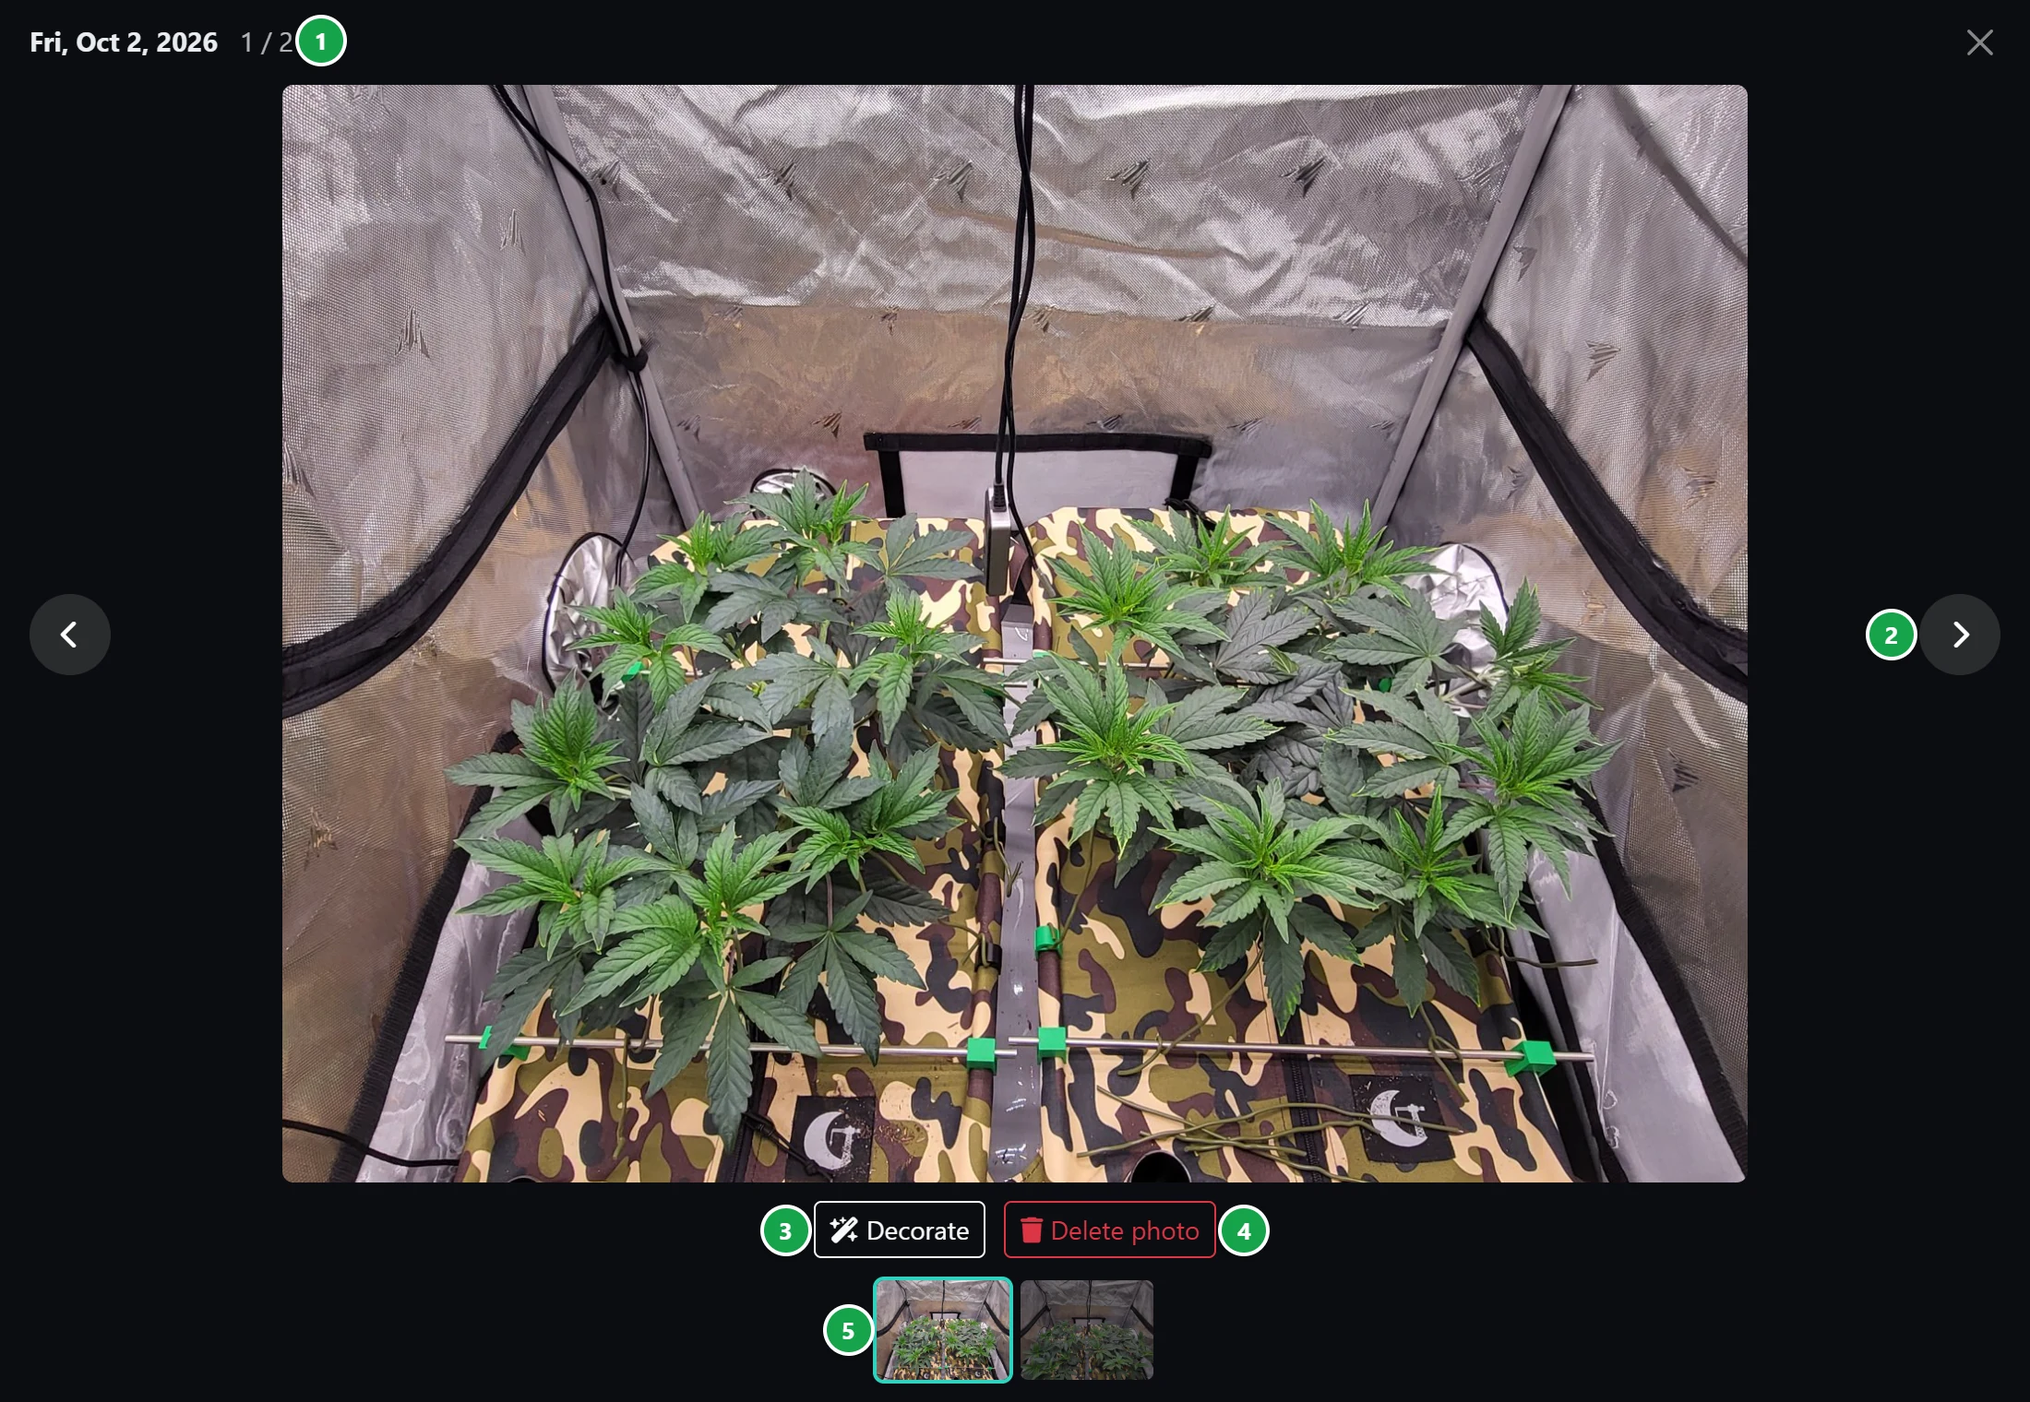
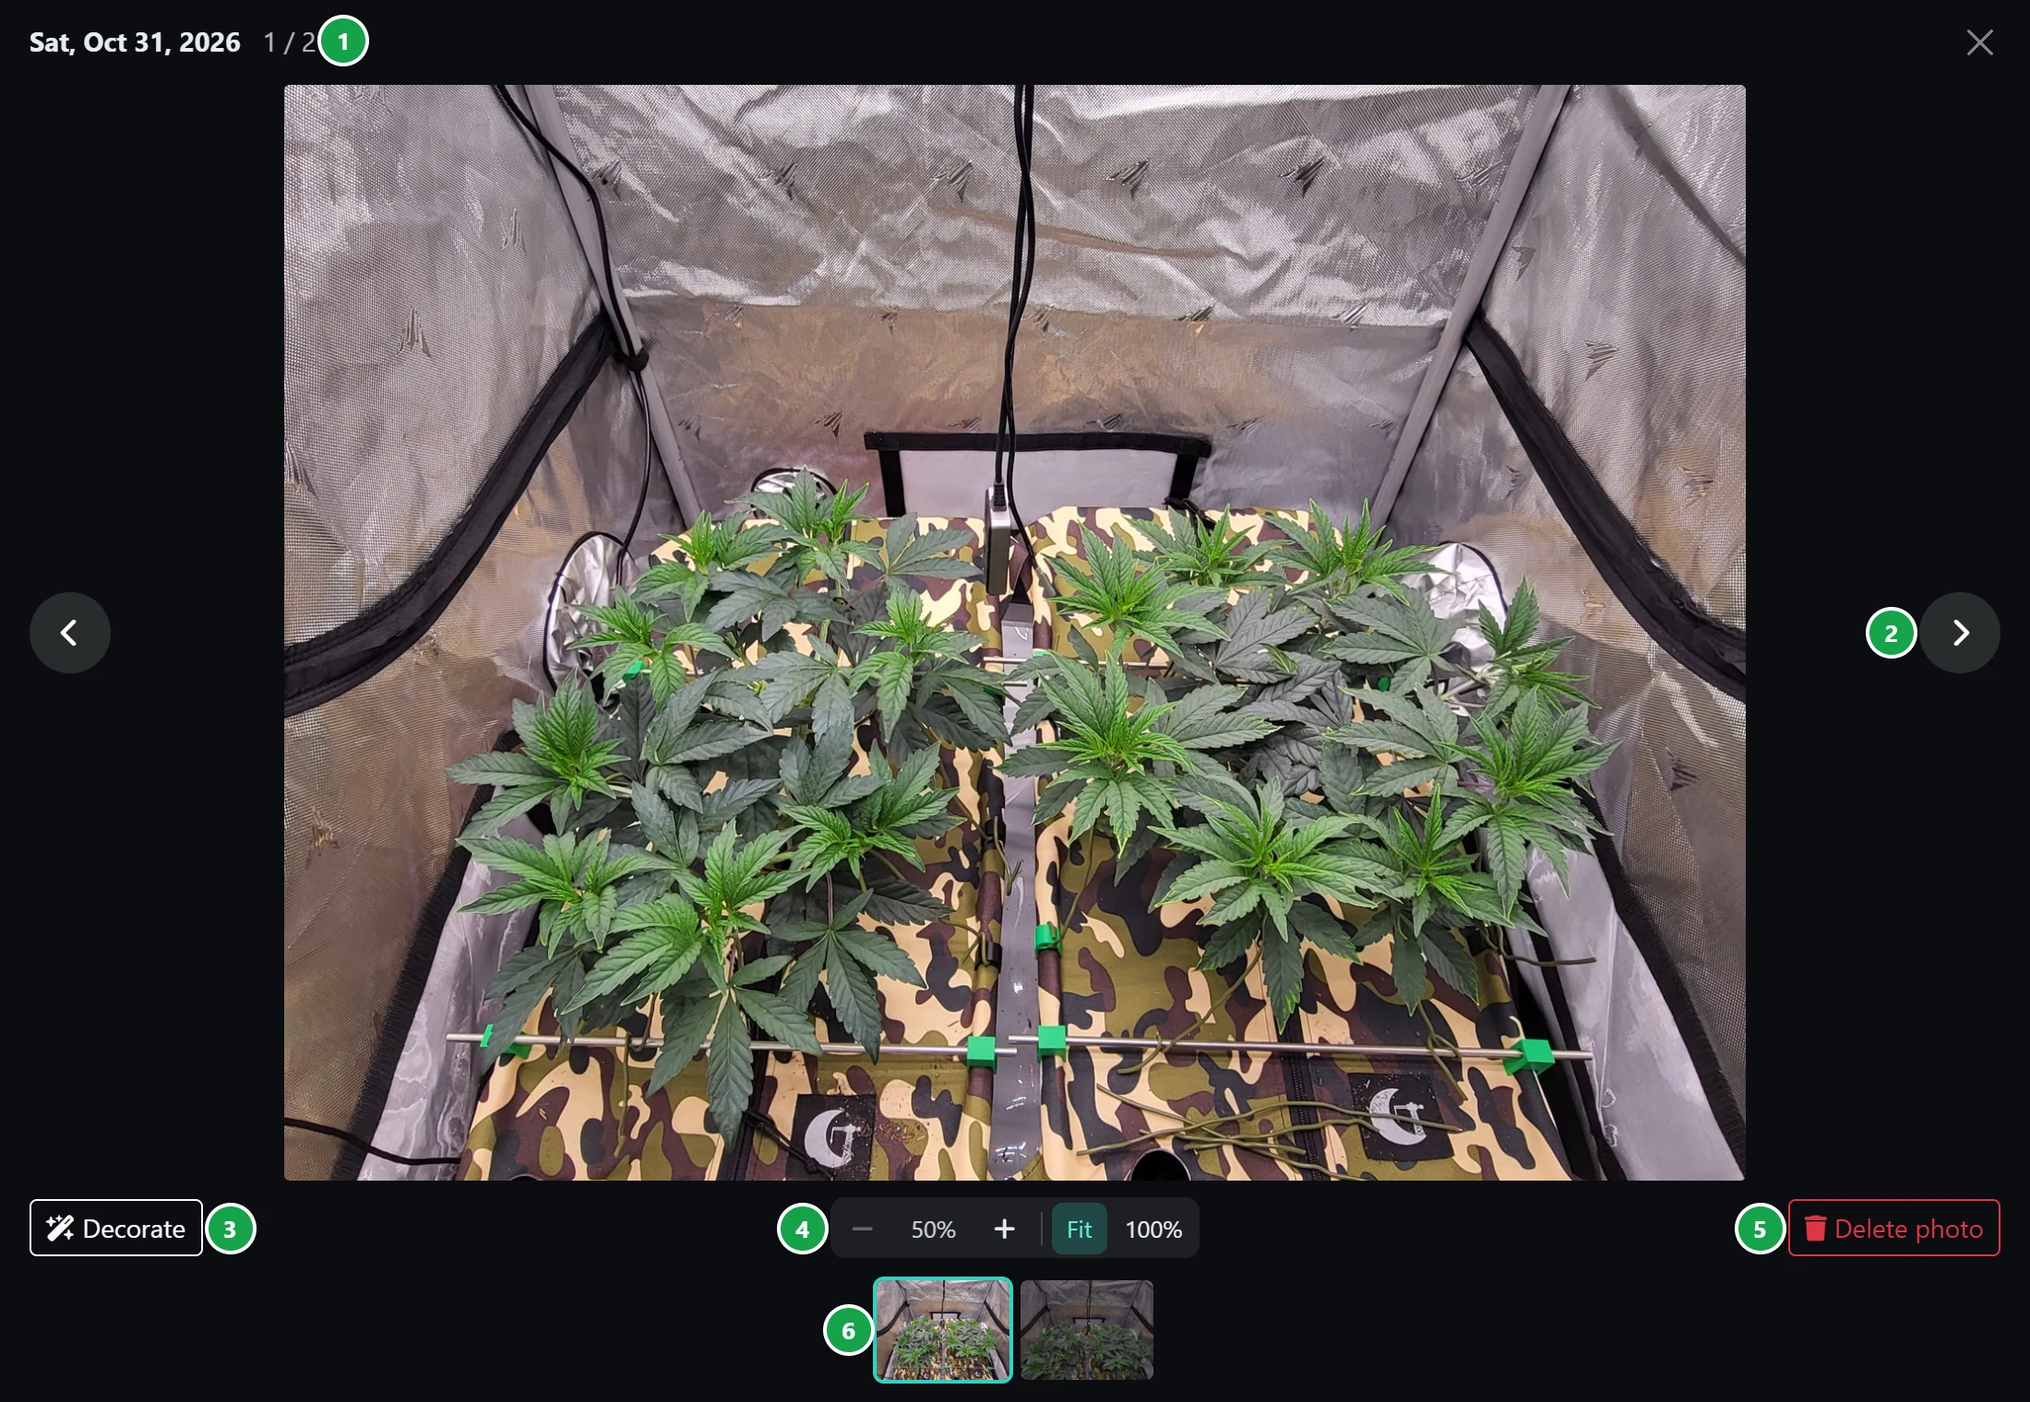
Photo viewer zoom; Delete photo moved away from the thumbnails
The plant photo viewer zooms from fitted up to 300%: mouse wheel at the
pointer, double-click or double-tap between fitted and zoomed in, drag to
move, two-finger pinch, keys + - 0. One row under the photo holds Decorate
(far left), the zoom buttons (centered) and Delete photo (far right); on
phones Decorate and Delete sit under the photo and the zoom buttons above
the thumbnails. Help's Viewing photos list and picture gained Zoom.

Also: the Spanish compare-page hint uses "tú" like the rest of the app.

diff --git a/web/static/js/plant-page.js b/web/static/js/plant-page.js
@@ -460,20 +460,36 @@
         const el = modal("ppViewer", `<div class="modal-dialog modal-fullscreen"><div class="modal-content">
             <div class="pp-vtop"><span id="ppVCap"></span><span class="acts">
                 <button type="button" class="btn-close btn-close-white ms-2" data-bs-dismiss="modal" aria-label="${esc(tr("pp_close"))}"></button></span></div>
-            <div class="pp-vbody"><button class="pp-vnav prev" id="ppVPrev" aria-label="${esc(tr("pp_previous"))}"><i class="fa-solid fa-chevron-left"></i></button>
-                <img id="ppVImg" alt=""><button class="pp-vnav next" id="ppVNext" aria-label="${esc(tr("pp_next"))}"><i class="fa-solid fa-chevron-right"></i></button></div>
-            ${LOGGED_IN ? `<div class="pp-vacts"><button class="btn btn-sm btn-outline-light" id="ppVDecorate"><i class="fa-solid fa-wand-magic-sparkles me-1"></i>${esc(tr("pp_decorate"))}</button>
-                <button class="btn btn-sm btn-outline-danger" id="ppVDelete"><i class="fa-solid fa-trash me-1"></i>${esc(tr("pp_delete_photo"))}</button></div>` : ""}
+            <div class="pp-vbody"><div class="pp-vstage" id="ppVStage"><img id="ppVImg" alt="" draggable="false"></div>
+                <button class="pp-vnav prev" id="ppVPrev" aria-label="${esc(tr("pp_previous"))}"><i class="fa-solid fa-chevron-left"></i></button>
+                <button class="pp-vnav next" id="ppVNext" aria-label="${esc(tr("pp_next"))}"><i class="fa-solid fa-chevron-right"></i></button>
+                <div class="pp-vhint gone" id="ppVHint"></div></div>
+            <div class="pp-vacts">${LOGGED_IN ? `<button class="btn btn-sm btn-outline-light deco" id="ppVDecorate"><i class="fa-solid fa-wand-magic-sparkles me-1"></i>${esc(tr("pp_decorate"))}</button>` : ""}
+                <span class="pp-vzoom">
+                    <button type="button" id="ppVOut" title="${esc(tr("pp_zoom_out_tip"))}" aria-label="${esc(tr("pp_zoom_out"))}"><i class="fa-solid fa-minus"></i></button>
+                    <span class="pct" id="ppVPct">100%</span>
+                    <button type="button" id="ppVIn" title="${esc(tr("pp_zoom_in_tip"))}" aria-label="${esc(tr("pp_zoom_in"))}"><i class="fa-solid fa-plus"></i></button>
+                    <span class="sep wide"></span>
+                    <button type="button" class="wide" id="ppVFit" title="${esc(tr("pp_zoom_fit_tip"))}">${esc(tr("pp_zoom_fit"))}</button>
+                    <button type="button" class="wide" id="ppVOne" title="${esc(tr("pp_zoom_actual_tip"))}">100%</button>
+                </span>
+                ${LOGGED_IN ? `<button class="btn btn-sm btn-outline-danger del" id="ppVDelete"><i class="fa-solid fa-trash me-1"></i>${esc(tr("pp_delete_photo"))}</button>` : ""}</div>
             <div class="pp-vstrip" id="ppVStrip"></div></div></div>`, "pp-viewer");
         if (!el.dataset.wired) {
             el.dataset.wired = "1";
             $("ppVPrev").addEventListener("click", () => stepViewer(-1));
             $("ppVNext").addEventListener("click", () => stepViewer(1));
             document.addEventListener("keydown", e => {
-                if (!el.classList.contains("show")) return;
+                if (!el.classList.contains("show") || e.ctrlKey || e.metaKey || e.altKey) return;
+                const a = document.activeElement;
+                if (a && a.closest(".modal") && !el.contains(a)) return; // e.g. the delete confirmation
                 if (e.key === "ArrowLeft") stepViewer(-1);
-                if (e.key === "ArrowRight") stepViewer(1);
+                else if (e.key === "ArrowRight") stepViewer(1);
+                else if (e.key === "+" || e.key === "=") vZoom.step(1);
+                else if (e.key === "-" || e.key === "_") vZoom.step(-1);
+                else if (e.key === "0") vZoom.fit();
             });
+            vZoom.wire(el);
             if (LOGGED_IN) {
                 $("ppVDecorate").addEventListener("click", () => {
                     const thumb = document.querySelector(`#ppThumbs .thumbnail-img[data-id="${vList[vIdx].id}"]`);
@@ -492,11 +508,121 @@
         }
         vList = list; vIdx = idx;
         showViewer();
+        vZoom.hint();
         bootstrap.Modal.getOrCreateInstance(el).show();
     }
+    // Zoom in the viewer: fitted (never smaller) up to 300% of the photo's own pixels.
+    // Wheel zooms at the pointer, double-click/tap switches Fit <-> 100%, drag moves,
+    // two fingers pinch. A new photo always opens fitted.
+    const vZoom = (() => {
+        const MAX = 3;
+        let stage, img, scale = 1, x = 0, y = 0, fitScale = 1, hintTimer = null, pending = true;
+        const zoomed = () => scale > fitScale * 1.001;
+        function fitOf() {
+            const w = img.naturalWidth || 1, h = img.naturalHeight || 1;
+            return Math.min(stage.clientWidth * 0.92 / w, stage.clientHeight / h, 1);
+        }
+        // A zoomed photo can't be pushed off the screen; one smaller than the screen stays centered.
+        function clamp() {
+            const w = img.naturalWidth * scale, h = img.naturalHeight * scale, W = stage.clientWidth, H = stage.clientHeight;
+            x = w <= W ? (W - w) / 2 : Math.min(0, Math.max(W - w, x));
+            y = h <= H ? (H - h) / 2 : Math.min(0, Math.max(H - h, y));
+        }
+        function apply() {
+            clamp();
+            img.style.transform = `translate(${x}px, ${y}px) scale(${scale})`;
+            $("ppVPct").textContent = Math.round(scale * 100) + "%";
+            $("ppVOut").disabled = !zoomed();
+            $("ppVIn").disabled = scale >= MAX - 1e-6;
+            $("ppVFit").classList.toggle("on", !zoomed());
+            $("ppVOne").classList.toggle("on", Math.abs(scale - 1) < 1e-3);
+            stage.classList.toggle("zoomed", zoomed());
+        }
+        function fit() {
+            if (!img.naturalWidth || !stage.clientWidth) return;
+            fitScale = scale = fitOf();
+            pending = false;
+            apply();
+            img.style.visibility = "";
+        }
+        function zoomTo(s, cx = stage.clientWidth / 2, cy = stage.clientHeight / 2) {
+            if (!img.naturalWidth) return;
+            s = Math.min(MAX, Math.max(fitScale, s));
+            x = cx - (cx - x) * (s / scale);
+            y = cy - (cy - y) * (s / scale);
+            scale = s;
+            apply();
+        }
+        const step = (d, cx, cy) => zoomTo(scale * (d > 0 ? 1.25 : 1 / 1.25), cx, cy);
+        const toggleAt = (cx, cy) => { if (zoomed()) fit(); else zoomTo(Math.max(1, fitScale * 2), cx, cy); };
+        const local = e => { const r = stage.getBoundingClientRect(); return { x: e.clientX - r.left, y: e.clientY - r.top }; };
+        function wire() {
+            stage = $("ppVStage"); img = $("ppVImg");
+            img.addEventListener("load", fit);
+            $("ppVIn").addEventListener("click", () => step(1));
+            $("ppVOut").addEventListener("click", () => step(-1));
+            $("ppVFit").addEventListener("click", fit);
+            $("ppVOne").addEventListener("click", () => zoomTo(1));
+            stage.addEventListener("wheel", e => { e.preventDefault(); const p = local(e); step(e.deltaY < 0 ? 1 : -1, p.x, p.y); }, { passive: false });
+            stage.addEventListener("dblclick", e => { const p = local(e); toggleAt(p.x, p.y); });
+            // Pointers: one moves a zoomed photo, two pinch; a quick second tap is a double-tap.
+            const pts = new Map();
+            let drag = null, pinch = null, lastTap = 0;
+            stage.addEventListener("pointerdown", e => {
+                if (e.pointerType === "mouse" && e.button !== 0) return;
+                stage.setPointerCapture(e.pointerId);
+                pts.set(e.pointerId, local(e));
+                if (pts.size === 2) {
+                    const [a, b] = [...pts.values()];
+                    pinch = { d: Math.hypot(a.x - b.x, a.y - b.y) || 1, s: scale };
+                    drag = null;
+                } else if (pts.size === 1) {
+                    if (e.pointerType !== "mouse") {
+                        const now = Date.now();
+                        if (now - lastTap < 300) { const p = local(e); toggleAt(p.x, p.y); lastTap = 0; return; }
+                        lastTap = now;
+                    }
+                    if (zoomed()) { drag = { sx: e.clientX - x, sy: e.clientY - y }; stage.classList.add("dragging"); }
+                }
+            });
+            stage.addEventListener("pointermove", e => {
+                if (!pts.has(e.pointerId)) return;
+                pts.set(e.pointerId, local(e));
+                if (pinch && pts.size === 2) {
+                    const [a, b] = [...pts.values()];
+                    zoomTo(pinch.s * Math.hypot(a.x - b.x, a.y - b.y) / pinch.d, (a.x + b.x) / 2, (a.y + b.y) / 2);
+                } else if (drag) { x = e.clientX - drag.sx; y = e.clientY - drag.sy; apply(); }
+            });
+            const up = e => { pts.delete(e.pointerId); if (pts.size < 2) pinch = null; if (!pts.size) { drag = null; stage.classList.remove("dragging"); } };
+            stage.addEventListener("pointerup", up);
+            stage.addEventListener("pointercancel", up);
+            // The stage has no size until the window opens, and changes with the browser window.
+            new ResizeObserver(() => {
+                if (pending || !zoomed()) { fit(); return; }
+                if (!stage.clientWidth) return;
+                fitScale = fitOf();
+                apply();
+            }).observe(stage);
+        }
+        // A new photo: hide it until it is placed, fitted.
+        function load(src) {
+            img.style.visibility = "hidden";
+            pending = true;
+            if (img.getAttribute("src") === src && img.complete && img.naturalWidth) fit();
+            else img.src = src;
+        }
+        function hint() {
+            const h = $("ppVHint");
+            h.textContent = tr(matchMedia("(pointer: coarse)").matches ? "pp_zoom_hint_touch" : "pp_zoom_hint_mouse");
+            h.classList.remove("gone");
+            clearTimeout(hintTimer);
+            hintTimer = setTimeout(() => h.classList.add("gone"), 3500);
+        }
+        return { wire, load, fit, step, hint };
+    })();
     function showViewer() {
         const p = vList[vIdx];
-        $("ppVImg").src = p.path;
+        vZoom.load(p.path);
         $("ppVImg").alt = p.description || "";
         const who = p.plant && allMode ? esc((metaOf(p.plant) || {}).name || "") + " · " : "";
         $("ppVCap").innerHTML = `<strong>${who}${esc(fmt(p.date, { weekday: "short", month: "short", day: "numeric", year: "numeric" }))}</strong>${p.description ? " · " + esc(p.description) : ""} <span class="ms-2 opacity-75">${vIdx + 1} / ${vList.length}</span>`;

diff --git a/web/static/css/isley.css b/web/static/css/isley.css
@@ -2752,12 +2752,34 @@ th, td {
 .pp-vtop { display: flex; justify-content: space-between; align-items: center; gap: .5rem; padding: .75rem 1rem; font-size: .9rem; flex-wrap: wrap; }
 .pp-vtop .acts { display: flex; gap: .4rem; align-items: center; }
 .pp-vbody { flex: 1; display: flex; align-items: center; justify-content: center; position: relative; min-height: 0; }
-.pp-vbody img { max-width: 92%; max-height: 100%; object-fit: contain; border-radius: 6px; }
-.pp-vnav { position: absolute; top: 50%; transform: translateY(-50%); width: 44px; height: 44px; border-radius: 50%; border: 0; background: rgba(255, 255, 255, .12); color: #fff; }
+.pp-vnav { position: absolute; top: 50%; transform: translateY(-50%); width: 44px; height: 44px; border-radius: 50%; border: 0; background: rgba(255, 255, 255, .12); color: #fff; z-index: 2; }
 .pp-vnav.prev { left: 1rem; }
 .pp-vnav.next { right: 1rem; }
-/* Decorate / Delete under the photo, away from the close button at the top. */
-.pp-vacts { display: flex; gap: .6rem; justify-content: center; padding: .6rem .75rem 0; }
+/* Zoom: the photo is placed by transform inside the stage (fitted, up to 300%). */
+.pp-vstage { position: absolute; inset: 0; overflow: hidden; touch-action: none; cursor: zoom-in; }
+.pp-vstage.zoomed { cursor: grab; }
+.pp-vstage.dragging { cursor: grabbing; }
+.pp-vstage img { position: absolute; left: 0; top: 0; max-width: none; max-height: none; transform-origin: 0 0; border-radius: 6px; user-select: none; -webkit-user-drag: none; }
+.pp-vhint { position: absolute; left: 50%; bottom: .6rem; transform: translateX(-50%); z-index: 2; font-size: .75rem; color: #cbd5e1; background: rgba(0, 0, 0, .55); border-radius: 999px; padding: .2rem .7rem; pointer-events: none; white-space: nowrap; transition: opacity .3s; }
+.pp-vhint.gone { opacity: 0; }
+.pp-vzoom { display: inline-flex; align-items: center; gap: .15rem; background: rgba(255, 255, 255, .08); border-radius: 8px; padding: .15rem; }
+.pp-vzoom button { border: 0; background: transparent; color: #e8ebf0; border-radius: 6px; font-size: .8rem; min-width: 30px; height: 28px; padding: 0 .45rem; }
+.pp-vzoom button:hover:not(:disabled) { background: rgba(255, 255, 255, .14); }
+.pp-vzoom button:disabled { opacity: .35; }
+.pp-vzoom button.on { background: rgba(45, 212, 191, .22); color: #5eead4; }
+.pp-vzoom .pct { min-width: 3.3em; text-align: center; font-variant-numeric: tabular-nums; font-size: .8rem; opacity: .85; }
+.pp-vzoom .sep { width: 1px; height: 18px; background: rgba(255, 255, 255, .18); margin: 0 .15rem; }
+/* One row under the photo: Decorate far left, zoom centered, Delete far right (away from the thumbnails). */
+.pp-vacts { display: grid; grid-template-columns: 1fr auto 1fr; grid-template-areas: "deco zoom del"; align-items: center; gap: .6rem; padding: .6rem 1rem 0; }
+.pp-vacts .deco { grid-area: deco; justify-self: start; }
+.pp-vacts .pp-vzoom { grid-area: zoom; }
+.pp-vacts .del { grid-area: del; justify-self: end; }
+/* Phone: Decorate and Delete under the photo, zoom centered above the thumbnails. */
+@media (max-width: 575.98px) {
+    .pp-vzoom .wide { display: none; }
+    .pp-vacts { grid-template-columns: 1fr 1fr; grid-template-areas: "deco del" "zoom zoom"; }
+    .pp-vacts .pp-vzoom { justify-self: center; }
+}
 .pp-vstrip { display: flex; gap: .4rem; justify-content: center; padding: .75rem; overflow-x: auto; }
 .pp-vstrip img { height: 54px; border-radius: 4px; opacity: .5; cursor: pointer; }
 .pp-vstrip img.active { opacity: 1; outline: 2px solid #2dd4bf; }

diff --git a/web/manual/en/photos.md b/web/manual/en/photos.md
@@ -19,13 +19,14 @@ Your most recent upload becomes the featured hero image at the top of the plant'
 
 Click any photo to open the full-screen gallery viewer.
 
-![The photo viewer: the date, the arrows, Decorate and Delete photo, and the thumbnails](fig:photo-viewer)
+![The photo viewer: the date, the arrows, Decorate, zoom, Delete photo and the thumbnails](fig:photo-viewer)
 
 - {1} **Date and index:** shows the date the photo was taken and its index number within that day's gallery.
 - {2} **Navigation:** click the left and right arrows to browse photos, or use the left and right arrow keys on your keyboard.
 - {3} **Decorate:** adds custom text overlays and brand logos to a copy of the photo. See below.
-- {4} **Delete photo:** permanently deletes the photo after confirmation. This action cannot be undone.
-- {5} **Thumbnails:** quick-select gallery strip of all photos taken that day. Click any thumbnail to jump to it.
+- {4} **Zoom:** scroll or double-click to zoom, then drag to move around the photo. On a phone or tablet, pinch or double-tap. The **−** and **+** buttons zoom out and in, **Fit** shows the whole photo, and **100%** shows it at actual size. On the keyboard, **+** and **−** zoom and **0** shows the whole photo.
+- {5} **Delete photo:** permanently deletes the photo after confirmation. This action cannot be undone.
+- {6} **Thumbnails:** quick-select gallery strip of all photos taken that day. Click any thumbnail to jump to it.
 
 Close the photo viewer by clicking the X icon in the top right corner, or press the Esc key.
 

diff --git a/CHANGELOG.md b/CHANGELOG.md
@@ -28,6 +28,7 @@ used three parts.
 ### Added
 
 - Sensors: **Export readings** on the Environment page saves sensor readings as a CSV or Excel file, with every reading or the average, lowest and highest for each 15 minutes, 30 minutes, hour or day.
+- Plants: the photo viewer can zoom up to 300%. Scroll, double-click, pinch or double-tap to zoom, then drag to move around the photo. The zoom buttons sit under the photo, and **Delete photo** moved to the far right, away from the thumbnails.
 
 ### Changed
 
